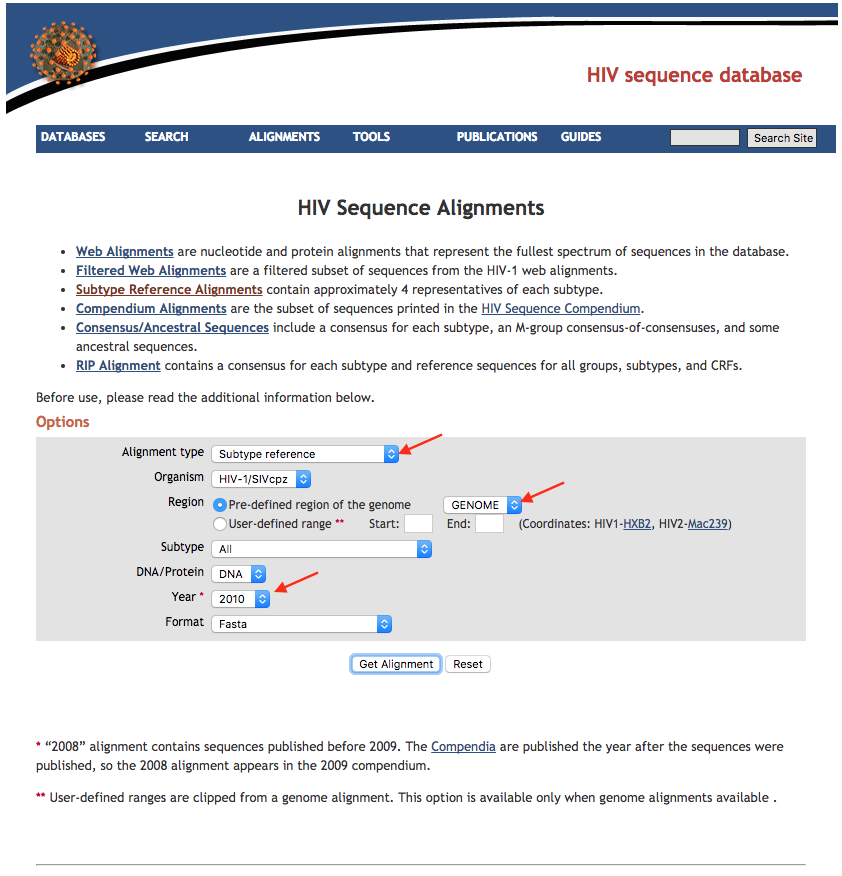
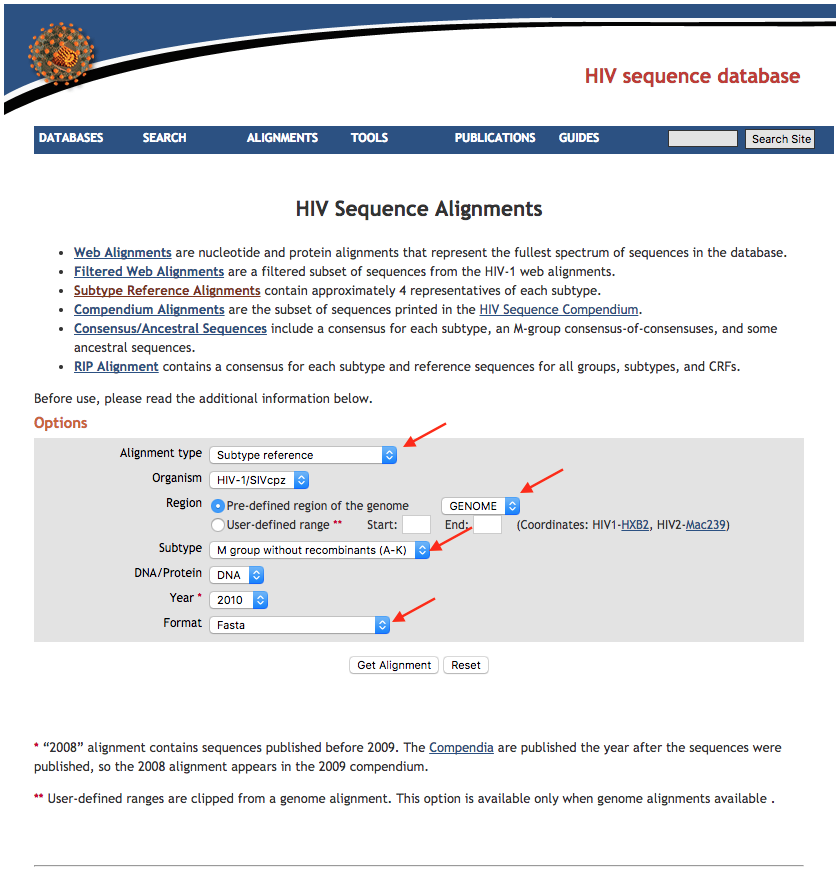
updated HIV references to include 4 references per subtype

diff --git a/HIV/references/README2.md b/HIV/references/README2.md
@@ -5,62 +5,59 @@
 The [Los Alamos HIV Database](https://hiv.lanl.gov/) is used to obtain reference sequences.
 LANL has [curated alignments](https://www.hiv.lanl.gov/content/sequence/NEWALIGN/align.html)
 available for download at the above link. We will download complete **genomes** for the 
-**subtype references** from **2014** and use this to identify the subtypes of our samples.
+**subtype references** from **2010** and use this to identify the subtypes of our samples.
 We will also download complete **genomes** for **consensus/ancestral** sequences from **2002**.
 
-The fields of interest are *Alignment type*, *Region*, and *Year*.
+The fields of interest are *Alignment type*, *Region*, *Subtype*, and *Year*.
 
 ![Screenshot of LANL download page](../../docs/lanl_hiv_download.png)
 
-For the subtype reference, select *Subtype reference*, *GENOME*, and *2010*.
+For the subtype reference, select *Subtype reference*, *GENOME*,
+*M group without recombinants*, and *2010*.
 Save the downloaded file as `HIV1_REF_2010_genome_DNA.fasta` in the `LANL` directory.
 
-For the consensus reference, select *Consensus/Ancestral*, *GENOME*, and *2002*.
+For the consensus reference, select *Consensus/Ancestral*, *GENOME*,
+*M group without recombinants*, and *2002*.
 Save the downloaded file as `HIV1_CON_2002_genome_DNA.fasta` in the `LANL` directory.
 
 
-## 2. Extract subset of references
+## 2. Extract references
 
 The strategy we will use for identifying the subtype of each sample is to compare
-sequences from the sample to a reference database containing one representative from
-each subtype. The downloaded file contains multiple sequences for each subtype, so here
-we are going to extract a subset of the sequences for building the database.
+sequences from the sample to a reference database containing a few representatives from
+each subtype. The downloaded file contains approximately 4 representative sequences for 
+each subtype.
 
-We have already selected the IDs in a file called  `ids.txt`.
-The following script selects the sequences and creates a FASTA file:
+The following script reformats the subtype reference names and sequences:
 
 ```python
 from Bio import SeqIO
 import re
 
 """
-Load all sequences in FASTA file into a dictionary with the sequence ID as the key
+Load all sequences in FASTA file into a dictionary with new ID as the key
 """
 seqs = {}
 for s in SeqIO.parse('LANL/HIV1_REF_2010_genome_DNA.fasta','fasta'):
-    seqs[s.id] = s
+    subt = s.id.split('.')[1]
+    acc = s.id.split('.')[-1]
+    name = s.id.split('.')[-2]
+    newid = 'HIV_%s.%s.%s' % (subt, acc, name)
+    seqs[newid] = s
 
-"""
-Extract one sequence from each subtype (from ids.txt) to HIV_subtype_refs.fasta.
-Also, write each sequence within its own file in the "subtypes" directory
-"""
-refnames = [l.strip() for l in open('ids.txt','r')]
-refnames.sort(key=lambda x: x.split('.')[1].lower())
 with open('HIV_subtype_refs.fasta', 'w') as outh:
-    for rn in refnames:
+    for rn in sorted(seqs.keys()):
         seqstr = str(seqs[rn].seq)
         seqstr = seqstr.replace('-', '').upper()
         seqstr = re.sub('\?','N', seqstr)
-        id = 'HIV_%s' % rn.split('.')[1].upper()
-        id = '%s.%s' % (id, rn.split('.')[-1])
-        print >>outh, '>%s' % id
+        print >>outh, '>%s' % rn
         for i in range(0,len(seqstr),100):
-            print >>outh, seqstr[i:i+100]        
-        with open('subtypes/%s.fasta' % id, 'w') as outs:
-            print >>outs, '>%s' % id
+            print >>outh, seqstr[i:i+100]
+        with open('subtypes/%s.fasta' % rn, 'w') as outs:
+            print >>outs, '>%s' % rn
             for i in range(0,len(seqstr),100):
                 print >>outs, seqstr[i:i+100]
-```
+``` 
 
 We will also create references for the consensus sequences.
 
